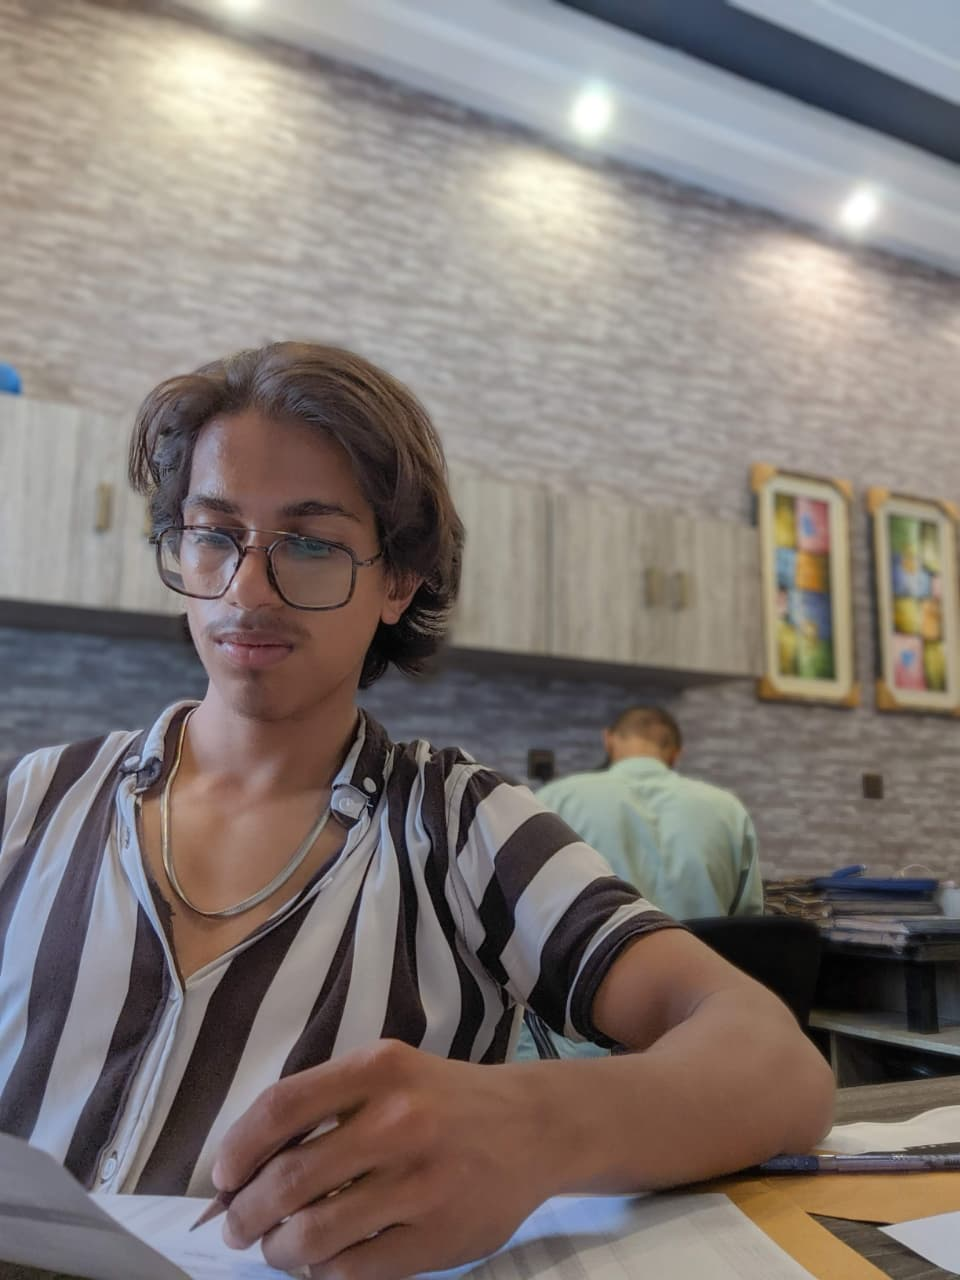
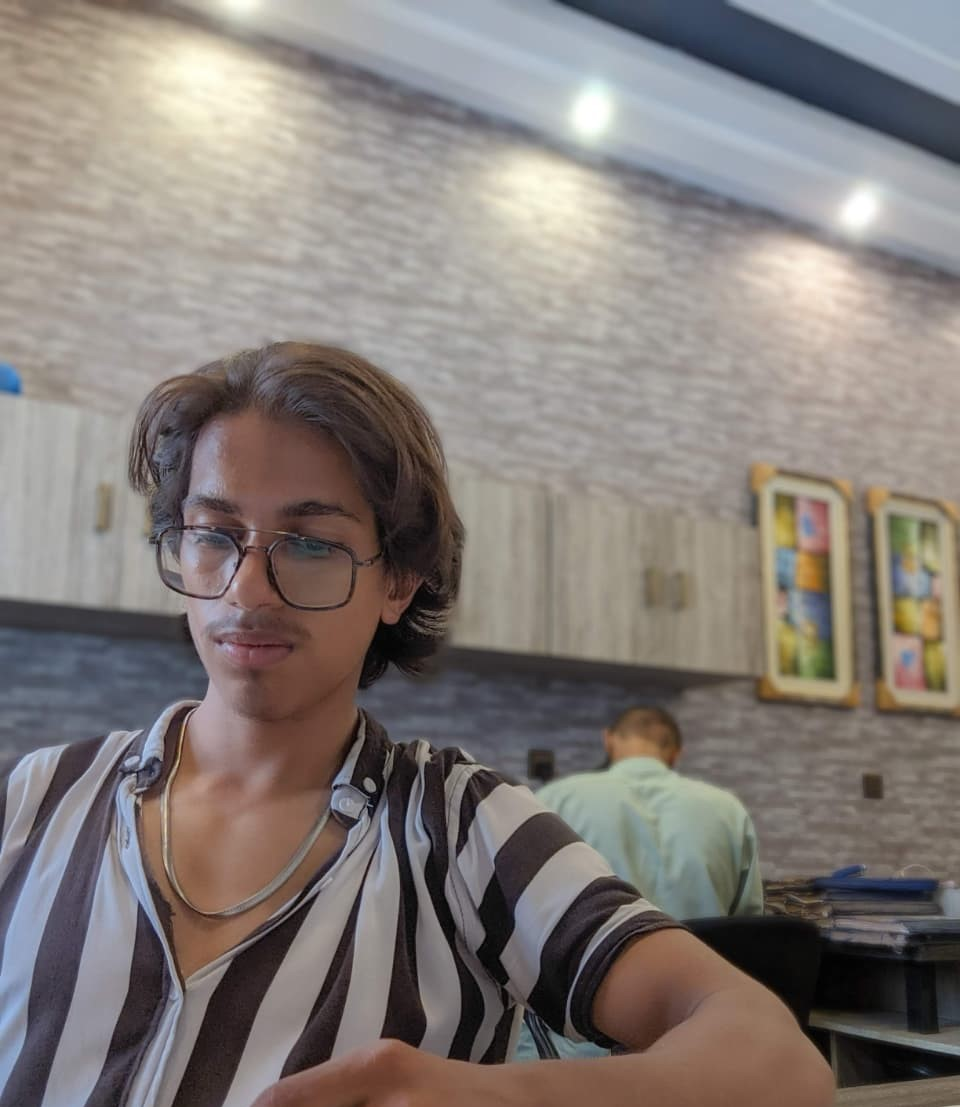
changing images for about section

diff --git a/src/components/About.vue b/src/components/About.vue
@@ -11,7 +11,7 @@
                                     :data-aos="image.animation" :data-aos-delay="image.delay">
                                     <div class="rounded-2xl p-2 border shadow-lg" :class="image.gradient">
                                         <img :src="image.src" :alt="image.alt"
-                                            class="w-full h-48 object-cover rounded-xl group-hover:scale-105 transition-transform duration-300">
+                                            class="w-full h-48 object-cover object-top rounded-xl group-hover:scale-105 transition-transform duration-300">
                                     </div>
                                     <div class="absolute -top-2 -right-2 text-white text-xs px-2 py-1 rounded-full font-semibold"
                                         :class="image.badgeColor">
@@ -59,13 +59,12 @@
                         </div>
                     </div>
                     <div class="flex gap-4 pt-8 flex-col sm:flex-row" data-aos="fade-up" data-aos-delay="400">
-                        <button v-for="button in ctaButtons" :key="button.id"
-    @click="button.action"
-    class="px-8 py-3 rounded-xl font-semibold transition-all duration-300 flex items-center justify-center"
-    :class="button.classes">
-    <component :is="button.icon" class="w-4 h-5" :class="button.iconclass" />
-    {{ button.text }}
-</button>
+                        <button v-for="button in ctaButtons" :key="button.id" @click="button.action"
+                            class="px-8 py-3 rounded-xl font-semibold transition-all duration-300 flex items-center justify-center"
+                            :class="button.classes">
+                            <component :is="button.icon" class="w-4 h-5" :class="button.iconclass" />
+                            {{ button.text }}
+                        </button>
                     </div>
                 </div>
             </div>
@@ -83,9 +82,9 @@ import {
     ServerIcon
 } from '@heroicons/vue/16/solid';
 import about1 from '../../public/about1.jpeg';
-import about2 from '../../public/about2.jpg';
-import about3 from '../../public/about3.jpg';
-import about4 from '../../public/about4.jpg';
+import about2 from '../../public/about2.png';
+import about3 from '../../public/about3.png';
+import about4 from '../../public/about4.jpeg';
 
 const scrollToSection = (id) => {
     document.getElementById(id)?.scrollIntoView({ behavior: 'smooth' });
